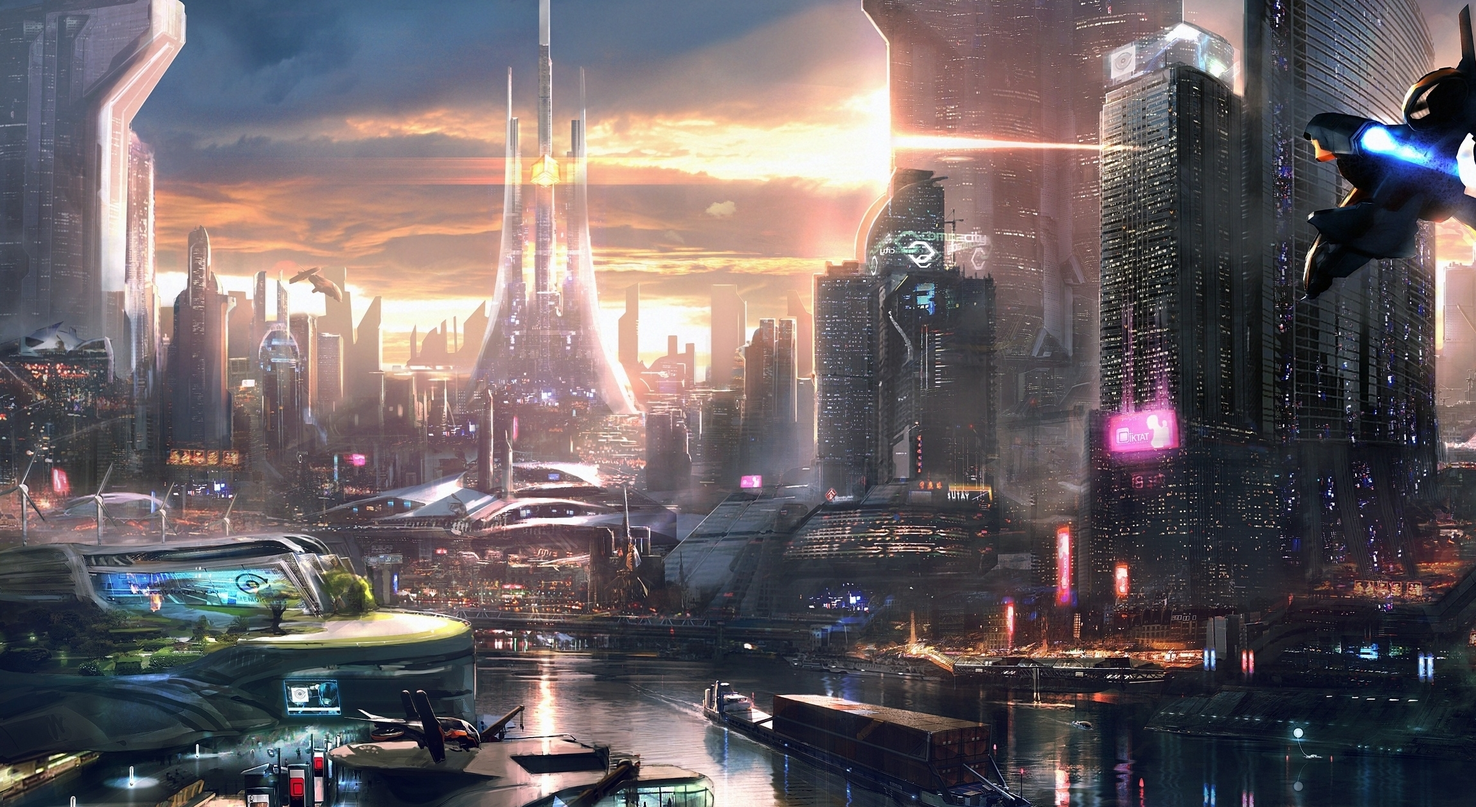
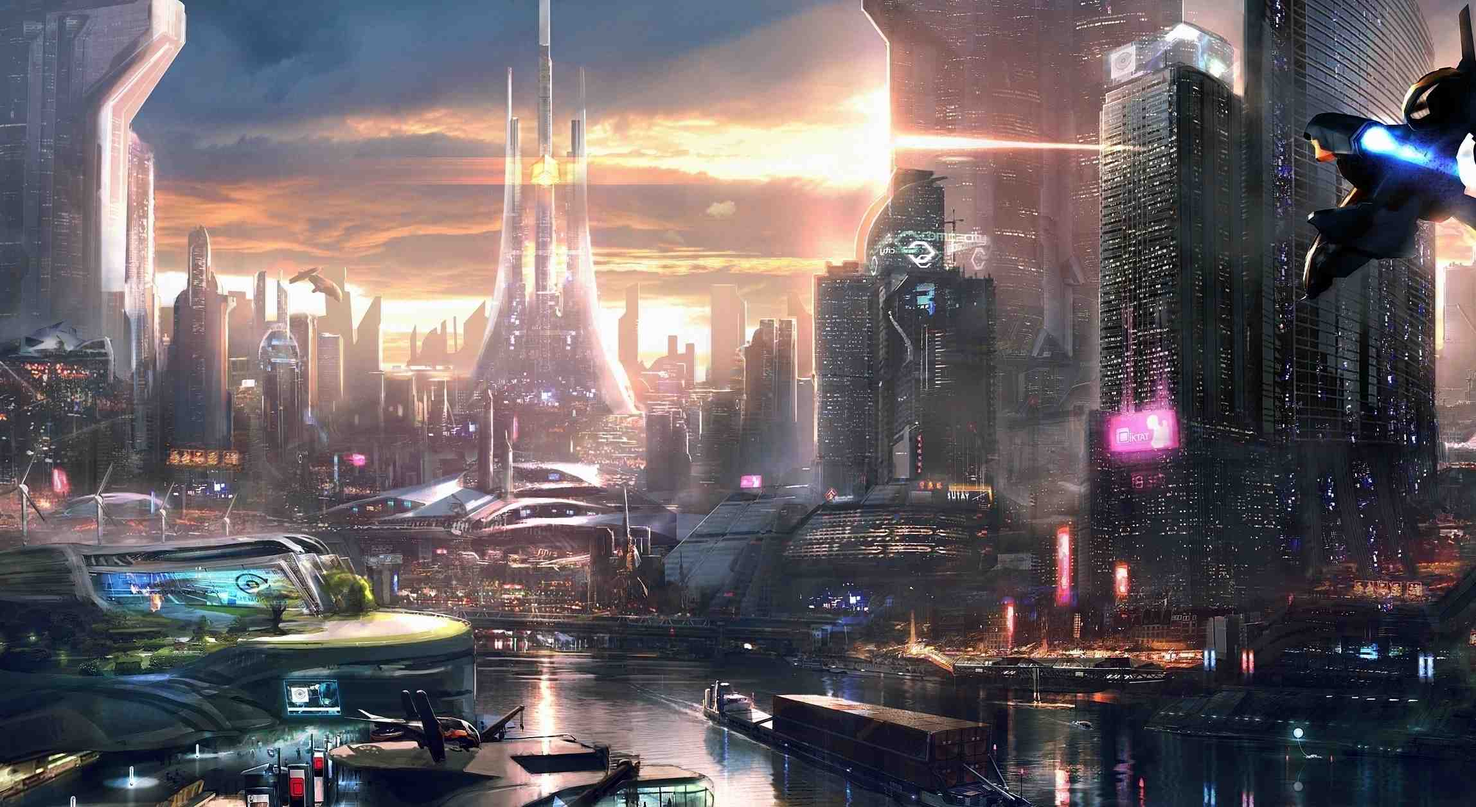
opti image

diff --git a/assets/global.scss b/assets/global.scss
@@ -70,7 +70,7 @@ $icon-font-path: "~bootstrap-sass/assets/fonts/bootstrap/";
   width: auto;
   height: 30px;
   line-height: 1rem;
-  background-image: url("../public/img/confirm.png");
+  background-image: url("../public/img/confirm.jpg");
   margin-left: 0.6rem;
   text-shadow: 1.5px 1.5px 2px rgba(255,255,255, 0.3);
   border: 1px solid black;
@@ -82,7 +82,7 @@ $icon-font-path: "~bootstrap-sass/assets/fonts/bootstrap/";
   width: 100%;
   height: 30px;
   font-size: 1.2rem;
-  background-image: url("../public/img/form-game.png");
+  background-image: url("../public/img/form-game.jpg");
   line-height: 1.5rem;
   padding-left: 1rem;
   padding-right: 1rem;
@@ -90,7 +90,7 @@ $icon-font-path: "~bootstrap-sass/assets/fonts/bootstrap/";
   border: 1px solid silver;
   border-radius: 5px;
   option {
-    background-image: url("../public/img/form-game.png");
+    background-image: url("../public/img/form-game.jpg");
     background: black;
   }
 }
@@ -100,7 +100,7 @@ $icon-font-path: "~bootstrap-sass/assets/fonts/bootstrap/";
   width: 100%;
   height: 30px;
   font-size: 1.2rem;
-  background-image: url("../public/img/blocked.png");
+  background-image: url("../public/img/blocked.jpg");
   background-size: cover;
   line-height: 1.5rem;
   padding-left: 1rem;
@@ -109,7 +109,7 @@ $icon-font-path: "~bootstrap-sass/assets/fonts/bootstrap/";
   border: 1px solid silver;
   border-radius: 5px;
   option {
-    background-image: url("../public/img/blocked.png");
+    background-image: url("../public/img/blocked.jpg");
     background: black;
   }
 }

diff --git a/assets/scss/front/research.scss b/assets/scss/front/research.scss
@@ -15,7 +15,7 @@
 }
 
 .blocked-search {
-  background-image: url("../public/img/blocked.png");
+  background-image: url("../public/img/blocked.jpg");
   background-color: black;
 }
 
@@ -29,7 +29,7 @@ tr.blocked-search td {
 
 .access-search {
   color: black;
-  background-image: url("../public/img/open5.png");
+  background-image: url("../public/img/open5.jpg");
   background-color: black;
   text-shadow:  1px 1px 2px rgba(255,255,255, 1);
 }
@@ -50,7 +50,7 @@ tr.access-search td {
 
 .access-search-2 {
   color: black;
-  background-image: url("../public/img/open6.png");
+  background-image: url("../public/img/open6.jpg");
   background-color: black;
   text-shadow:  1px 1px 2px rgba(255,255,255, 1);
 }
@@ -72,7 +72,7 @@ tr.access-search-2 td {
 .finish-search {
   color: white;
   font-weight: 900;
-  background-image: url("../public/img/open3.png");
+  background-image: url("../public/img/open3.jpg");
   background-color: black;
   text-shadow:  1px 1px 2px rgba(0,0,0, 1);
 }

diff --git a/assets/scss/front/unconnected.scss b/assets/scss/front/unconnected.scss
@@ -14,7 +14,7 @@
   font-size: 2rem;
   width: 281px;
   height: 38px;
-  background-image: url("../public/img/form.png");
+  background-image: url("../public/img/form.jpg");
   margin-bottom: 1rem;
   line-height: 4rem;
   padding-left: 1rem;
@@ -28,7 +28,7 @@
   font-size: 2rem;
   width: 115px;
   height: 38px;
-  background-image: url("../public/img/form.png");
+  background-image: url("../public/img/form.jpg");
   margin-left: 0.6rem;
   text-shadow: 1.5px 1.5px 2px rgba(255,255,255, 0.3);
   border: 1px solid silver;
@@ -42,7 +42,7 @@
 
 @-webkit-keyframes autofill {
   to {
-    background-image: url("../public/img/form.png");
+    background-image: url("../public/img/form.jpg");
     color: #fff;
     text-shadow: 1.5px 1.5px 2px rgba(0,0,0, 0.8);
   }

diff --git a/assets/scss/front/building.scss b/assets/scss/front/building.scss
@@ -20,7 +20,7 @@
 }
 
 .blocked-building {
-  background-image: url("../public/img/blocked.png");
+  background-image: url("../public/img/blocked.jpg");
   background-color: black;
   height: 79px;
 }
@@ -35,14 +35,14 @@ tr.blocked-building td {
 
 .access-build {
   color: black;
-  background-image: url("../public/img/back_build.png");
+  background-image: url("../public/img/back_build.jpg");
   background-color: black;
   text-shadow:  1px 1px 2px rgba(255,255,255, 1);
 }
 
 .access-build-2 {
   color: black;
-  background-image: url("../public/img/back_build_r.png");
+  background-image: url("../public/img/back_build_r.jpg");
   background-color: black;
   text-shadow:  1px 1px 2px rgba(255,255,255, 1);
 }

diff --git a/assets/scss/front/options.scss b/assets/scss/front/options.scss
@@ -5,7 +5,7 @@
   color: #fff!important;
   height: 30px;
   font-size: 1.2rem;
-  background-image: url("../public/img/form-game.png");
+  background-image: url("../public/img/form-game.jpg");
   line-height: 1.5rem;
   padding-left: 1rem;
   padding-right: 1rem;
@@ -13,7 +13,7 @@
   border: 1px solid silver;
   border-radius: 5px;
   option {
-    background-image: url("../public/img/form-game.png");
+    background-image: url("../public/img/form-game.jpg");
     background: black;
   }
 }

diff --git a/assets/scss/front/_topRessource.scss b/assets/scss/front/_topRessource.scss
@@ -9,7 +9,7 @@
   color: #fff !important;
   height: 20px;
   font-size: 1.2rem;
-  background-image: url(/build/images/form-game.e04970a1.png);
+  background-image: url(/build/images/form-game.jpg);
   line-height: 1.5rem;
   padding-left: 1rem;
   padding-right: 1rem;
